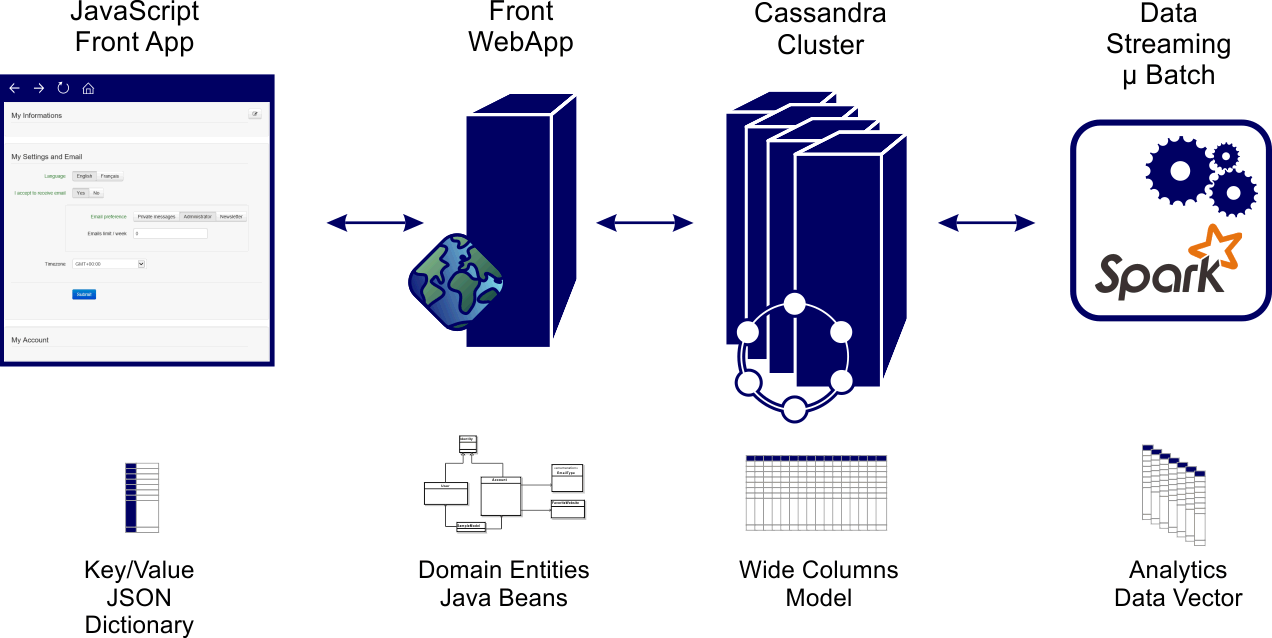
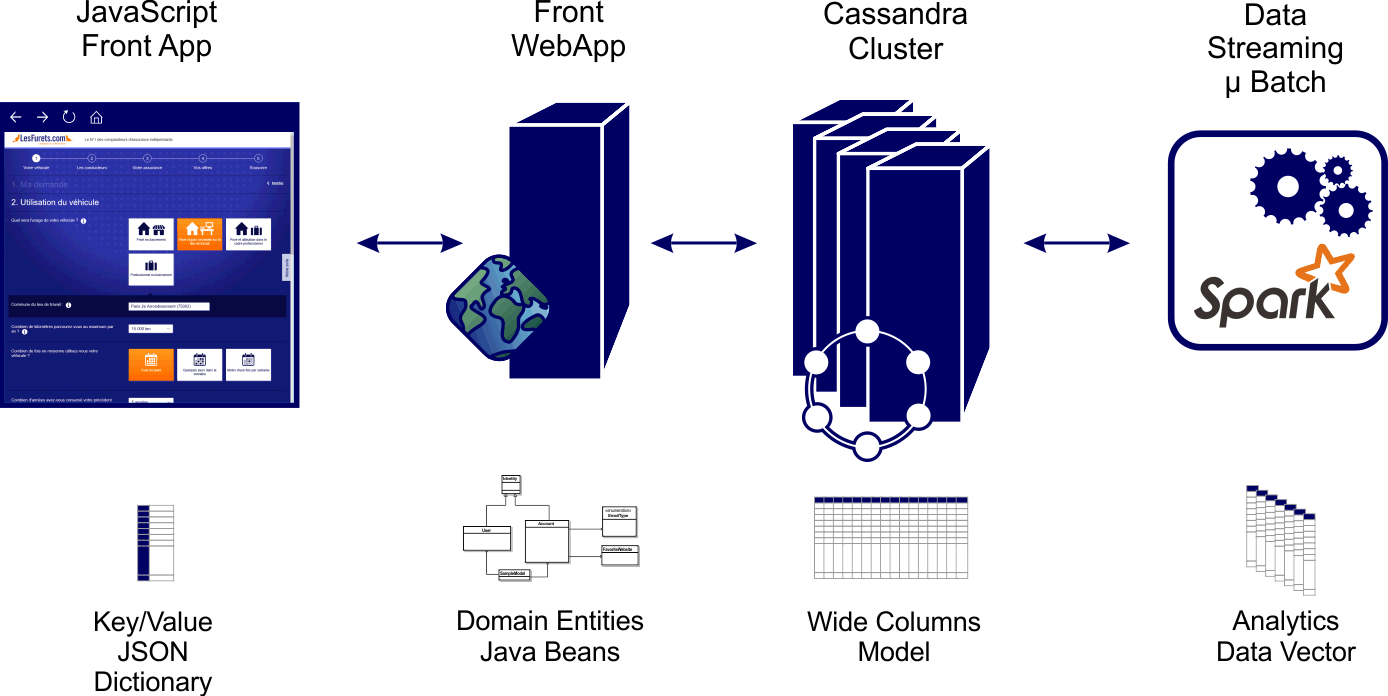
added lf.com screen copy

diff --git a/doc/org_modelmap.html b/doc/org_modelmap.html
@@ -46,7 +46,7 @@
             <div class="fragment">
               <h2>@gdigugli – Gilles Di Guglielmo</h2>
               <ul>
-                <li>Java Developer since 1999</li>
+                <li>Designer of sweet cooked software since 1999</li>
                 <li>Software Architect at LesFurets.com</li>
               </ul>
             </div>
